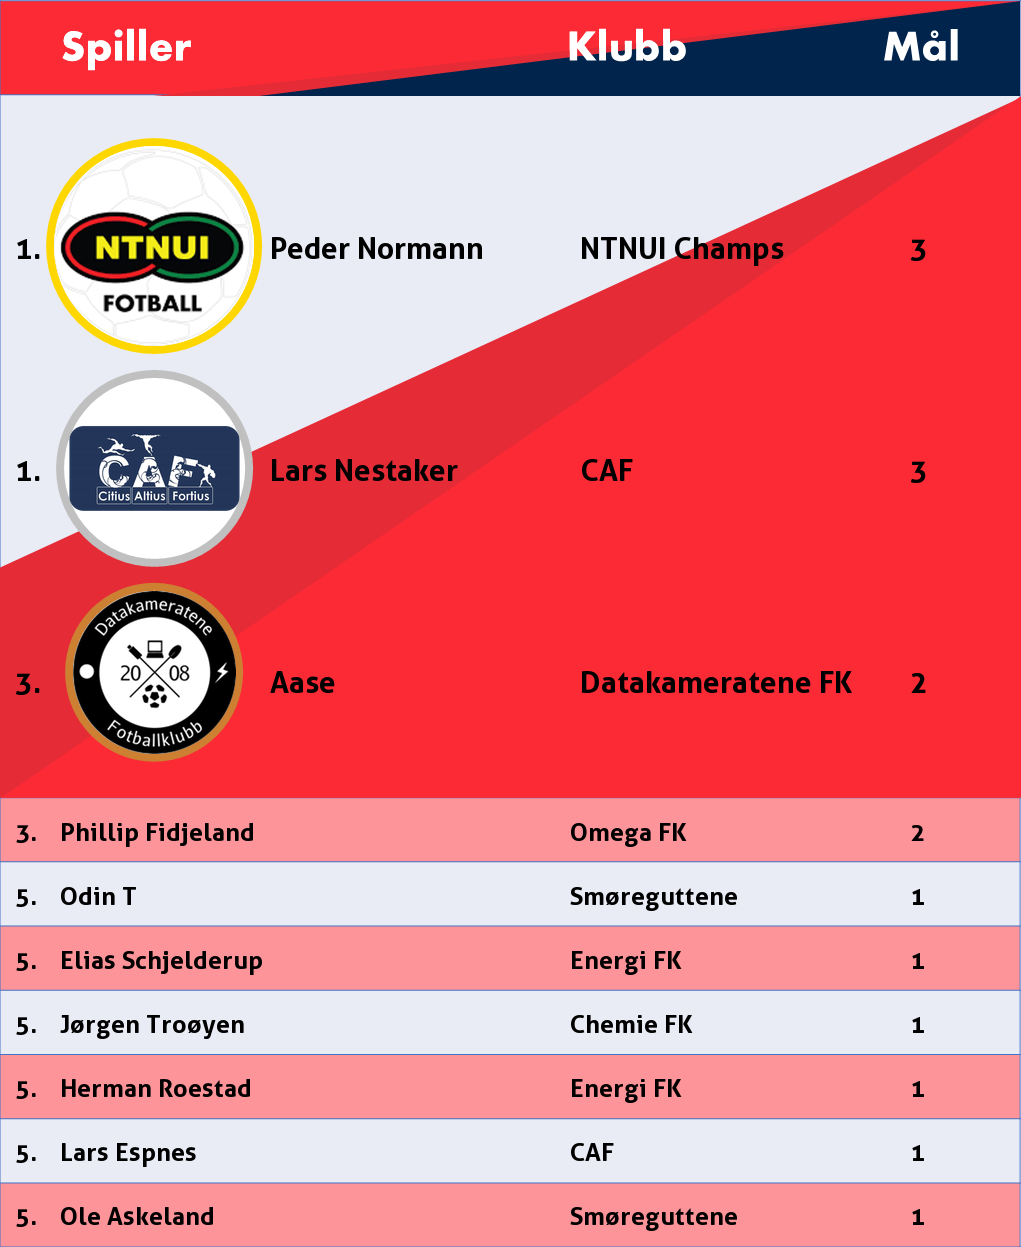
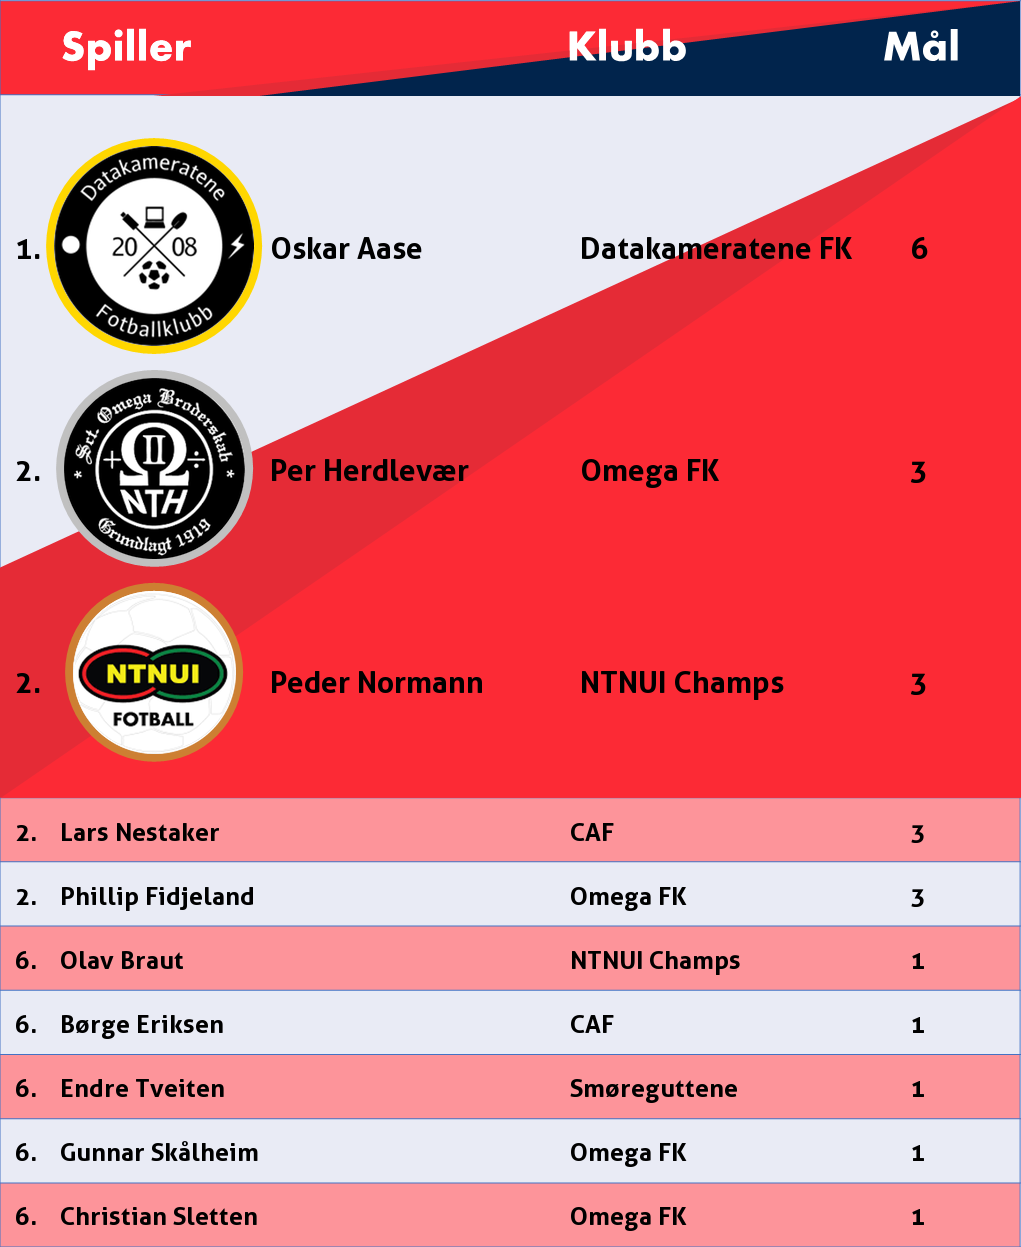
update

diff --git a/Scripts/TopScorer.py b/Scripts/TopScorer.py
@@ -4,6 +4,7 @@ from PIL import Image
 from PIL import ImageFont
 from PIL import ImageDraw
 from sklearn.utils import shuffle
+import os.path
 from datetime import date
 
 def readFromWeb(avd):
@@ -50,7 +51,10 @@ def createTopScore(data, avd):
             draw.text((x + 565, y),row[1],(0,0,0),font=fontB)
             draw.text((x + 895, y),str(row[2]),(0,0,0),font=fontB)
             y = y + 222 - index*10
-            logo = Image.open("Scripts/Logoer - Runde/" + row[1] + ".png")
+            if os.path.exists("Scripts/Toppscorers/" + row[0] + ".png"):
+                logo = Image.open("Scripts/Toppscorers/" + row[0] + ".png")
+            else:
+                logo = Image.open("Scripts/Logoer - Runde/" + row[1] + ".png")
             size = (scale[index], scale[index])
             logo = logo.resize(size, Image.ANTIALIAS)
             img.paste(logo,(xOff[index], yOff[index]), mask = logo)
@@ -86,6 +90,6 @@ def main(avd):
 
 
 # Velg avdeling: A = 0, B = 1
-avd = 0
+avd = 1
 
 main(avd)
